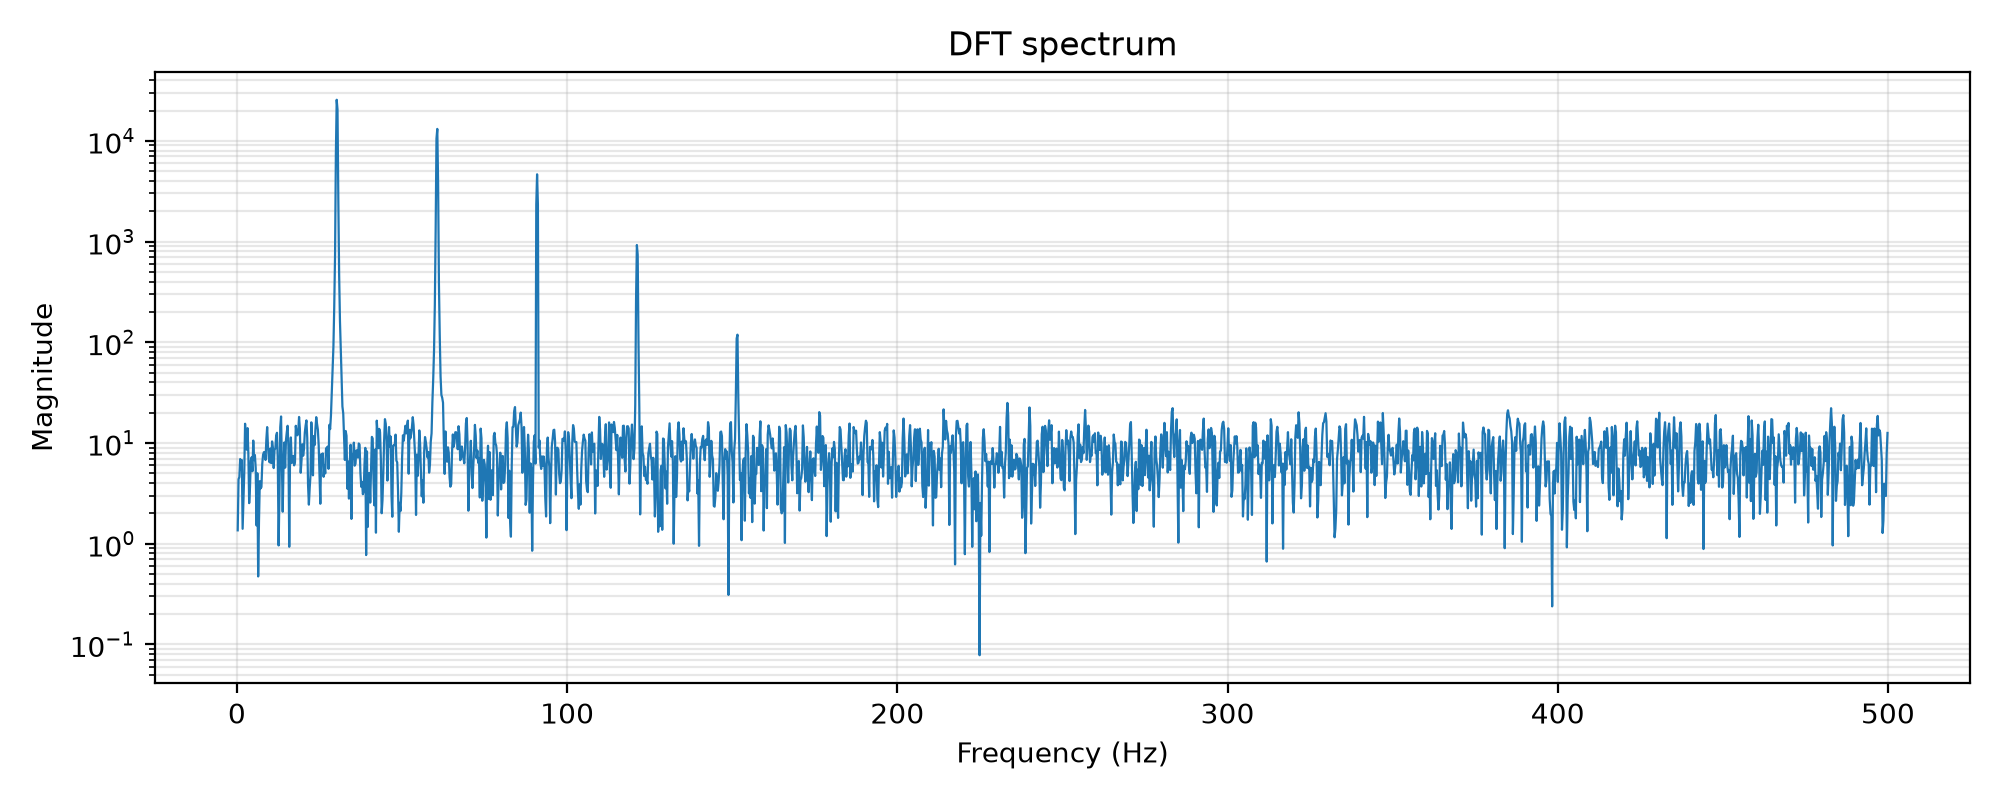
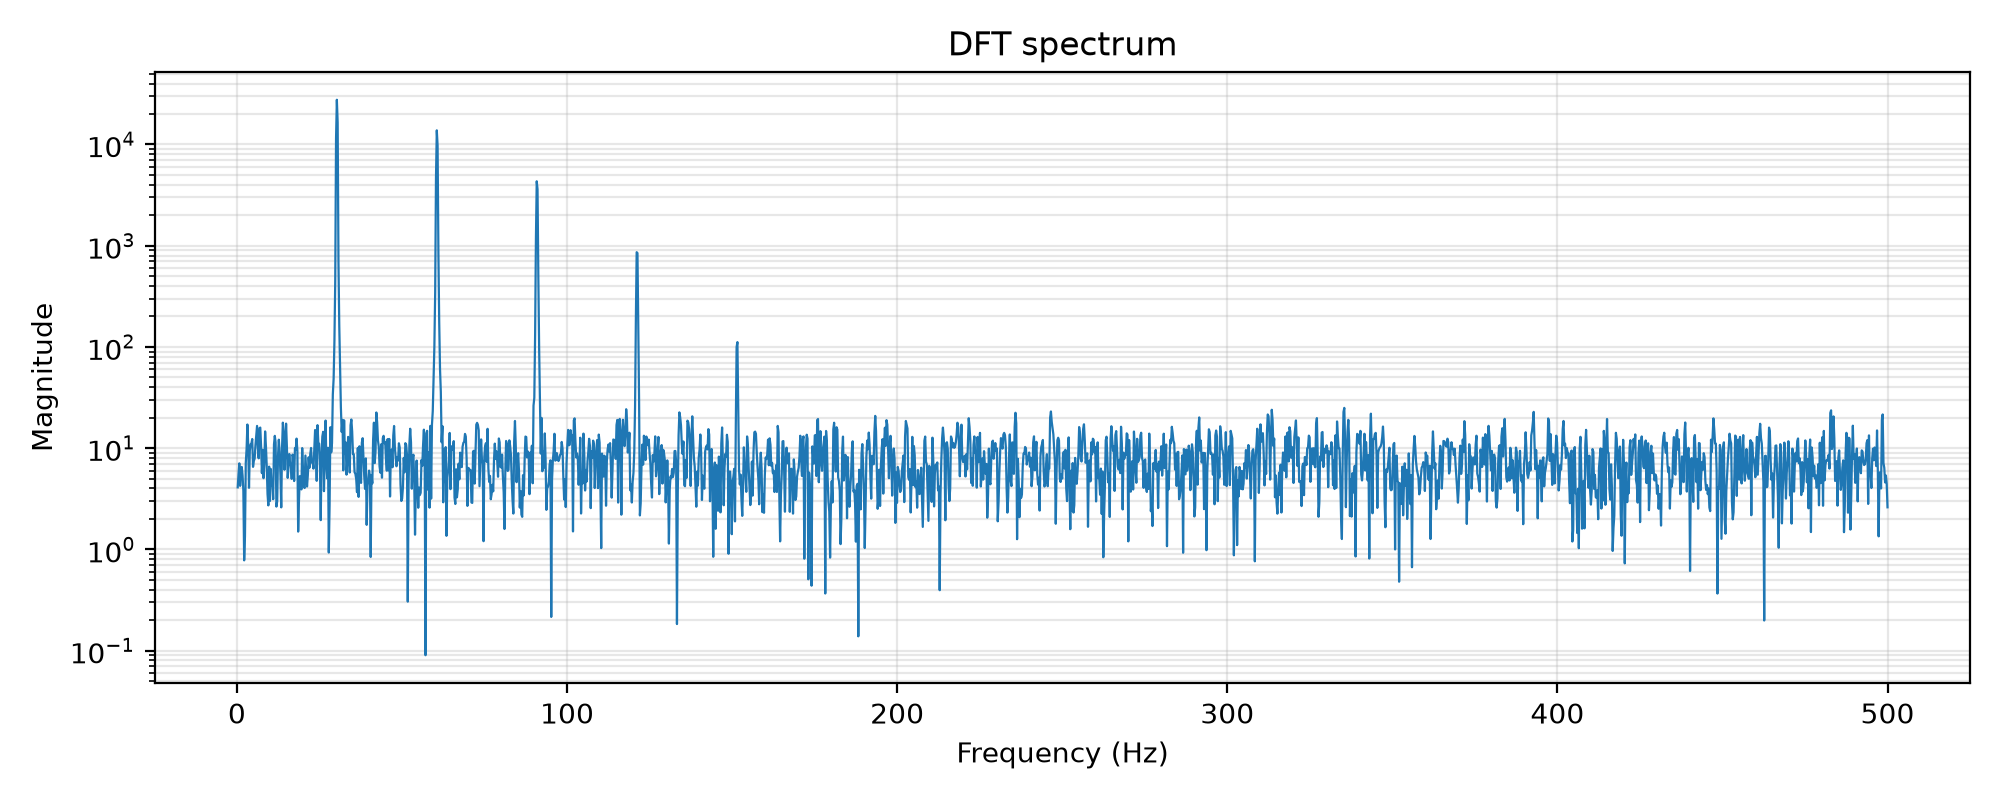
Replace DFT by FFT

diff --git a/dft.c b/dft.c
@@ -1,11 +1,20 @@
-
 #include <stdio.h>
 #include <stdlib.h>
 #include <math.h>
+#include <complex.h>
 #include "config.h"
 
-#define NB_K (N_UTIL / 2 + 1)                                           // Only half the spectrum needs to be computed
-#define PI   3.14159265358979323846
+#define NB_K (N_UTIL / 2 + 1)                                           // Only half the spectrum needs to be computed (real signal)
+
+#ifndef PI
+#define PI 3.14159265358979323846
+#endif
+
+// The radix-2 FFT divides the signal in two halves recursively,
+// so N_UTIL has to be a power of 2. Checked at compile time:
+// no runtime error path, hence no way to leak memory because of it.
+_Static_assert(N_UTIL >= 2 && (N_UTIL & (N_UTIL - 1)) == 0,
+               "N_UTIL must be a power of 2");
 
 int main(void)
 {
@@ -13,108 +22,141 @@ int main(void)
     FILE *f = NULL;                                                     // File variable for input signal
     FILE *magnitudes_file = NULL;                                       // File variable for output magnitudes
 
-    float *dedispersed = calloc(N_UTIL, sizeof(float));                 // Input signal             
+    float *dedispersed = calloc(N_UTIL, sizeof(float));                 // Input signal
     float *magnitudes  = calloc(NB_K, sizeof(float));                   // Output magnitudes
 
-    double *x     = calloc(N_UTIL, sizeof(double));                     // Signal after being treated (windowed, substracted the hann-mean)
-    double *cos_t = calloc(N_UTIL, sizeof(double));                     // DFT real factor
-    double *sin_t = calloc(N_UTIL, sizeof(double));                     // DFT imaginary factor
-    double *w     = calloc(N_UTIL, sizeof(double));                     // Hann-weights
-   
-    if (!dedispersed || !magnitudes || !x || !cos_t || !sin_t || !w){
-        fprintf(stderr, "Eror: out of memory\n");
+    double *w = calloc(N_UTIL, sizeof(double));                         // Hann weights
+    double complex *x = calloc(N_UTIL, sizeof(double complex));         // Windowed signal, then spectrum (in place)
+    double complex *twiddle = malloc((N_UTIL / 2) * sizeof(*twiddle));  // FFT twiddle factors
+
+    // Other variables (declared here so that no goto jumps over a declaration)
+    char header[100];
+    int idx;
+    int n_read = 0;
+    int close_err;
+    float amplitude;
+    double hann_mean;
+    double data_hann_product = 0.0;
+    double hann_sum          = 0.0;
+
+    if (!dedispersed || !magnitudes || !w || !x || !twiddle) {
+        fprintf(stderr, "Error: out of memory\n");
         goto cleanup;
     }
 
     // Load dedispersed.csv file
     f = fopen("dedispersed.csv", "r");
-    if (!f){
-       perror("dedispersed.csv");
-       goto cleanup;
-    };
-    
-    // Fetch the header
-    char header[100];
-    if (!fgets(header, sizeof(header), f)){
-        fprintf(stderr, "Error: dedispersed.csv is empty");
+    if (!f) {
+        perror("dedispersed.csv");
         goto cleanup;
     }
-    
-    // Read the data
-    int i;
-    float amplitude;
-    while (fscanf(f, "%d,%f", &i, &amplitude) == 2) {
-        if (i >= 0 && i < N_UTIL)
-            dedispersed[i] = amplitude;
+
+    // Fetch the header
+    if (!fgets(header, sizeof(header), f)) {
+        fprintf(stderr, "Error: dedispersed.csv is empty\n");
+        goto cleanup;
     }
-    
+
+    // Read the data
+    while (fscanf(f, "%d,%f", &idx, &amplitude) == 2) {
+        if (idx >= 0 && idx < N_UTIL) {
+            dedispersed[idx] = amplitude;
+            n_read++;
+        }
+    }
+
     // Close the file
     fclose(f);
     f = NULL;
 
-    // Compute the Hann weights (once and for all)
-    for (int n=0; n < N_UTIL; n++){
-        w[n] = 0.5 * (1.0 - cos(2 * PI * n / (N_UTIL - 1)));
+    if (n_read == 0) {
+        fprintf(stderr, "Error: no valid sample found in dedispersed.csv\n");
+        goto cleanup;
     }
+    if (n_read < N_UTIL)
+        fprintf(stderr, "Warning: only %d/%d samples read, the rest is set to 0\n",
+                n_read, N_UTIL);
+
+    // Compute the Hann weights (once and for all)
+    for (int n = 0; n < N_UTIL; n++)
+        w[n] = 0.5 * (1.0 - cos(2 * PI * n / (N_UTIL - 1)));
 
     // Compute the Hann-weighted mean
-    double hann_mean         = 0.0;
-    double data_hann_product = 0.0;
-    double hann_sum          = 0.0;
-
-    for (int n = 0; n < N_UTIL; n++){
+    for (int n = 0; n < N_UTIL; n++) {
         data_hann_product += dedispersed[n] * w[n];
         hann_sum += w[n];
     }
     hann_mean = data_hann_product / hann_sum;
 
-    // Compute the windowed and Hann-mean-substracted signal (once and for all)
-    for (int n = 0; n < N_UTIL; n++){
+    // Compute the windowed and Hann-mean-subtracted signal (once and for all)
+    for (int n = 0; n < N_UTIL; n++)
         x[n] = (dedispersed[n] - hann_mean) * w[n];
-    }
 
-    // Twidde factors : exp(-2*pi*i*m/N_UTIL) for m = 0 ... N_UTIL -1
-    for (int m = 0; m < N_UTIL; m++){
-        double angle = -2.0 * PI * m / N_UTIL;
-        cos_t[m] = cos(angle);
-        sin_t[m] = sin(angle);
-    }
+    // FFT ---------------------------------------------------------------------
 
-    // Compute the DFT with a Hann window
-    for (int k = 0; k < NB_K; k++) {
-        double re = 0.0, im = 0.0;
-        int m = 0;
+    // Twiddle factors: exp(-2*pi*i*k/N), k = 0 ... N/2 - 1
+    for (int k = 0; k < N_UTIL / 2; k++)
+        twiddle[k] = cexp(-2.0 * I * PI * (double)k / (double)N_UTIL);
 
-        for (int n = 0; n < N_UTIL; n++) {
-            re += x[n] * cos_t[m];
-            im += x[n] * sin_t[m];
-            m += k;
-            if (m >= N_UTIL) m -= N_UTIL;
+    // Bit-reversal
+    // Because of the successive divisions in pairs/odds, the samples end up
+    // in a different order. The new order is given by reversing the bits
+    // of the index.
+    for (int i = 1, j = 0; i < N_UTIL; i++) {
+        int bit = N_UTIL >> 1;
+        for (; j & bit; bit >>= 1)
+            j ^= bit;
+        j ^= bit;
+        if (i < j) {
+            double complex t = x[i];
+            x[i] = x[j];
+            x[j] = t;
         }
-
-        magnitudes[k] = (float)sqrt(re * re + im * im);
     }
 
-    // Open the outpur file
+    // Butterflies: len = 2, 4, 8, ..., N_UTIL
+    for (int len = 2; len <= N_UTIL; len <<= 1) {
+        int half   = len / 2;
+        int stride = N_UTIL / len;                                      // W_len^k = W_N^(k*stride)
+        for (int i = 0; i < N_UTIL; i += len) {
+            for (int k = 0; k < half; k++) {
+                double complex u = x[i + k];
+                double complex v = x[i + k + half] * twiddle[k * stride];
+                x[i + k]        = u + v;
+                x[i + k + half] = u - v;
+            }
+        }
+    }
+
+    // Magnitudes (only the first N/2 + 1 bins are meaningful for a real signal)
+    for (int k = 0; k < NB_K; k++)
+        magnitudes[k] = (float)cabs(x[k]);
+
+    // ------------------------------------------------------------------------
+
+    // Open the output file
     magnitudes_file = fopen("magnitudes.csv", "w");
-    if (!magnitudes_file){
+    if (!magnitudes_file) {
         perror("magnitudes.csv");
         goto cleanup;
     }
 
     // Write the header
     fprintf(magnitudes_file, "freq,magnitudes\n");
-    
+
     // Write the data
     for (int k = 0; k < NB_K; k++) {
-        float freq = (float)k / (N_UTIL * DT);
-        fprintf(magnitudes_file, "%f,%f\n",
-                freq, magnitudes[k]);
+        double freq = (double)k / ((double)N_UTIL * DT);
+        fprintf(magnitudes_file, "%f,%f\n", freq, magnitudes[k]);
     }
-    
-    // Close file
-    fclose(magnitudes_file);
+
+    // Close file (fclose also reports delayed write errors, e.g. disk full)
+    close_err = fclose(magnitudes_file);
     magnitudes_file = NULL;
+    if (close_err != 0) {
+        perror("magnitudes.csv");
+        goto cleanup;
+    }
 
     ret = 0;
 
@@ -124,10 +166,9 @@ cleanup:
 
     free(dedispersed);
     free(magnitudes);
-    free(x);
-    free(cos_t);
-    free(sin_t);
     free(w);
+    free(x);
+    free(twiddle);
 
     return ret;
 }

diff --git a/config.h b/config.h
@@ -1,4 +1,3 @@
-
 #ifndef CONFIG_H
 #define CONFIG_H
 
@@ -6,7 +5,7 @@
 
 // Simulation parameters
 #define DT              1e-3f
-#define N               4096
+#define N               4155    // = 4096 + MAX_DELAY (59), so that N_UTIL = 4096 (see the check below)
 #define FIRST_PULSE_POS 5
 #define PULSE_SIGMA 3.5f    // Gaussian standard deviation (samples), FWHM ≈ 2.355 * sigma
 #define N_CHANNEL       64
@@ -38,5 +37,11 @@
 #define MIN_UTIL       0
 #define MAX_UTIL       (N - MAX_DELAY)
 #define N_UTIL         (MAX_UTIL - MIN_UTIL)
+
+// N is kept a plain literal (usable for file-scope array sizes). If DM, the band
+// or DT change, MAX_DELAY changes too: this check then fails at compile time and
+// tells which N to use, so that N_UTIL stays a power of 2.
+_Static_assert(N_UTIL > 0 && (N_UTIL & (N_UTIL - 1)) == 0,
+               "N_UTIL = N - MAX_DELAY must be a power of 2: set N = 2^m + MAX_DELAY");
 
 #endif

diff --git a/dedispersion.c b/dedispersion.c
@@ -38,7 +38,7 @@ int main(void)
     float amplitude;
 
     if (!fgets(header, sizeof(header), data_file)){
-        frptinf(stderr, "Error: signal.csv is empty\n")
+        fprintf(stderr, "Error: signal.csv is empty\n");
         goto cleanup;
     }
 

diff --git a/README.md b/README.md
@@ -356,6 +356,7 @@ The project currently implements:
 - [x] Generation of the pulses emitted before the start of the observation, so that the dynamic spectrum has no empty region at its edges.
 - [x] Error messages on file and memory failures.
 - [x] Subtract the Hann-weighted mean rather than the usual mean to remove the residual DC component. 
+- [x] Replace direct $O(N^2)$ DFT with an $O(\text{log}N)$ FFT algorithm
 
 ## 10. Future improvements
 
@@ -363,7 +364,6 @@ Potential developments include:
 
 - [ ] **Dispersion measure search:** dedisperse the signal over a range of trial DM values and plot the signal-to-noise ratio as a function of DM. The maximum should occur near the true DM. This is the independent test of the method.
 - [ ] **Detection significance:** quantify the signal-to-noise ratio of the recovered pulse and the fundamental Fourier peak.
-- [ ] **Fast Fourier Transform:** replace the direct $O(N^2)$ DFT with an $O(N\log N)$ FFT algorithm and compare execution times (precompute the Hann window and the twiddle factors in the DFT first, for a fair comparison).
 - [ ] **Real pulsar data:** apply the dedispersion algorithm to public filterbank data from an observed pulsar.
 
 ## 11. References
